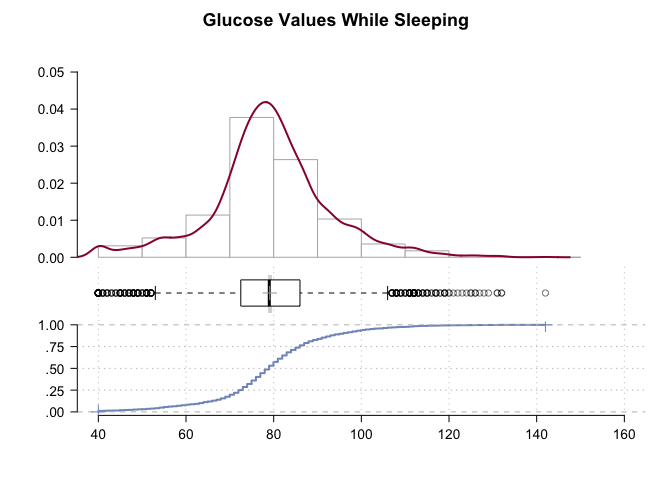
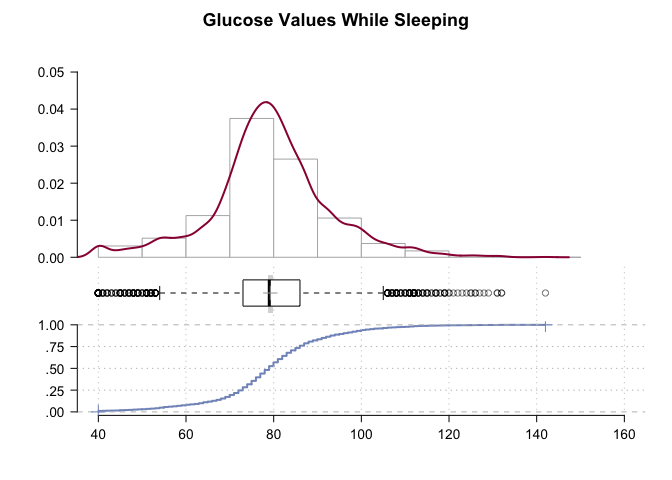
Updates 2019-08-27 am

diff --git a/README.md b/README.md
@@ -1,7 +1,7 @@
 Continuous Glucose Monitoring with Freestyle Libre
 ================
 Richard Sprague
-2019-08-26
+2019-08-27
 
 See [Continous Glucose Monitoring: Start
 Here](http://richardsprague.com/notes/continuous-glucose-monitoring/)
@@ -164,7 +164,7 @@ glucose %>% filter(apply(sapply(glucose$time,
     ## ------------------------------------------------------------------------- 
     ## Describe . (tbl_df, tbl, data.frame):
     ## 
-    ## data.frame:  2819 obs. of  1 variables
+    ## data.frame:  2853 obs. of  1 variables
     ## 
     ##   Nr  ColName  Class    NAs  Levels
     ##   1   value    numeric  .          
@@ -174,14 +174,14 @@ glucose %>% filter(apply(sapply(glucose$time,
     ## Glucose Values While Sleeping
     ## 
     ##   length       n    NAs  unique     0s   mean  meanCI
-    ##    2'819   2'819      0      93      0  79.10   78.59
-    ##           100.0%   0.0%           0.0%          79.60
+    ##    2'853   2'853      0      93      0  79.23   78.73
+    ##           100.0%   0.0%           0.0%          79.73
     ##                                                      
     ##      .05     .10    .25  median    .75    .90     .95
-    ##    55.00   63.00  72.50   79.00  86.00  96.00  102.00
+    ##    55.00   64.00  73.00   79.00  86.00  96.00  102.00
     ##                                                      
     ##    range      sd  vcoef     mad    IQR   skew    kurt
-    ##   102.00   13.68   0.17   10.38  13.50   0.08    1.46
+    ##   102.00   13.69   0.17   10.38  13.00   0.07    1.43
     ##                                                      
     ## lowest : 40.0 (31), 41.0 (5), 42.0 (4), 43.0 (3), 44.0 (3)
     ## highest: 128.0, 129.0, 131.0 (2), 132.0 (2), 142.0
@@ -199,24 +199,24 @@ glucose %>% filter(apply(sapply(glucose$time,
     ## ------------------------------------------------------------------------- 
     ## Describe . (tbl_df, tbl, data.frame):
     ## 
-    ## data.frame:  10898 obs. of  1 variables
+    ## data.frame:  10996 obs. of  1 variables
     ## 
     ##   Nr  ColName  Class    NAs         Levels
-    ##   1   value    numeric  115 (1.1%)        
+    ##   1   value    numeric  115 (1.0%)        
     ## 
     ## 
     ## ------------------------------------------------------------------------- 
     ## Glucose Values While Awake
     ## 
     ##   length       n    NAs  unique      0s    mean  meanCI
-    ##   10'898  10'783    115     143       0   90.27   89.91
-    ##            98.9%   1.1%            0.0%           90.63
+    ##   10'996  10'881    115     143       0   90.32   89.96
+    ##            99.0%   1.0%            0.0%           90.68
     ##                                                        
     ##      .05     .10    .25  median     .75     .90     .95
     ##    64.00   70.00  78.00   87.00  100.00  115.00  127.00
     ##                                                        
     ##    range      sd  vcoef     mad     IQR    skew    kurt
-    ##   171.00   19.21   0.21   14.83   22.00    0.92    2.14
+    ##   171.00   19.17   0.21   14.83   22.00    0.92    2.14
     ##                                                        
     ## lowest : 40.0 (33), 41.0 (5), 42.0 (5), 43.0 (3), 44.0 (7)
     ## highest: 195.0, 196.0, 204.0, 207.0, 211.0 (2)

diff --git a/food_effects.md b/food_effects.md
@@ -1,7 +1,7 @@
 How specific foods affect my glucose levels
 ================
 Richard Sprague
-2019-08-26
+2019-08-27
 
 Here are my glucose levels each time I eat a particular food.
 
